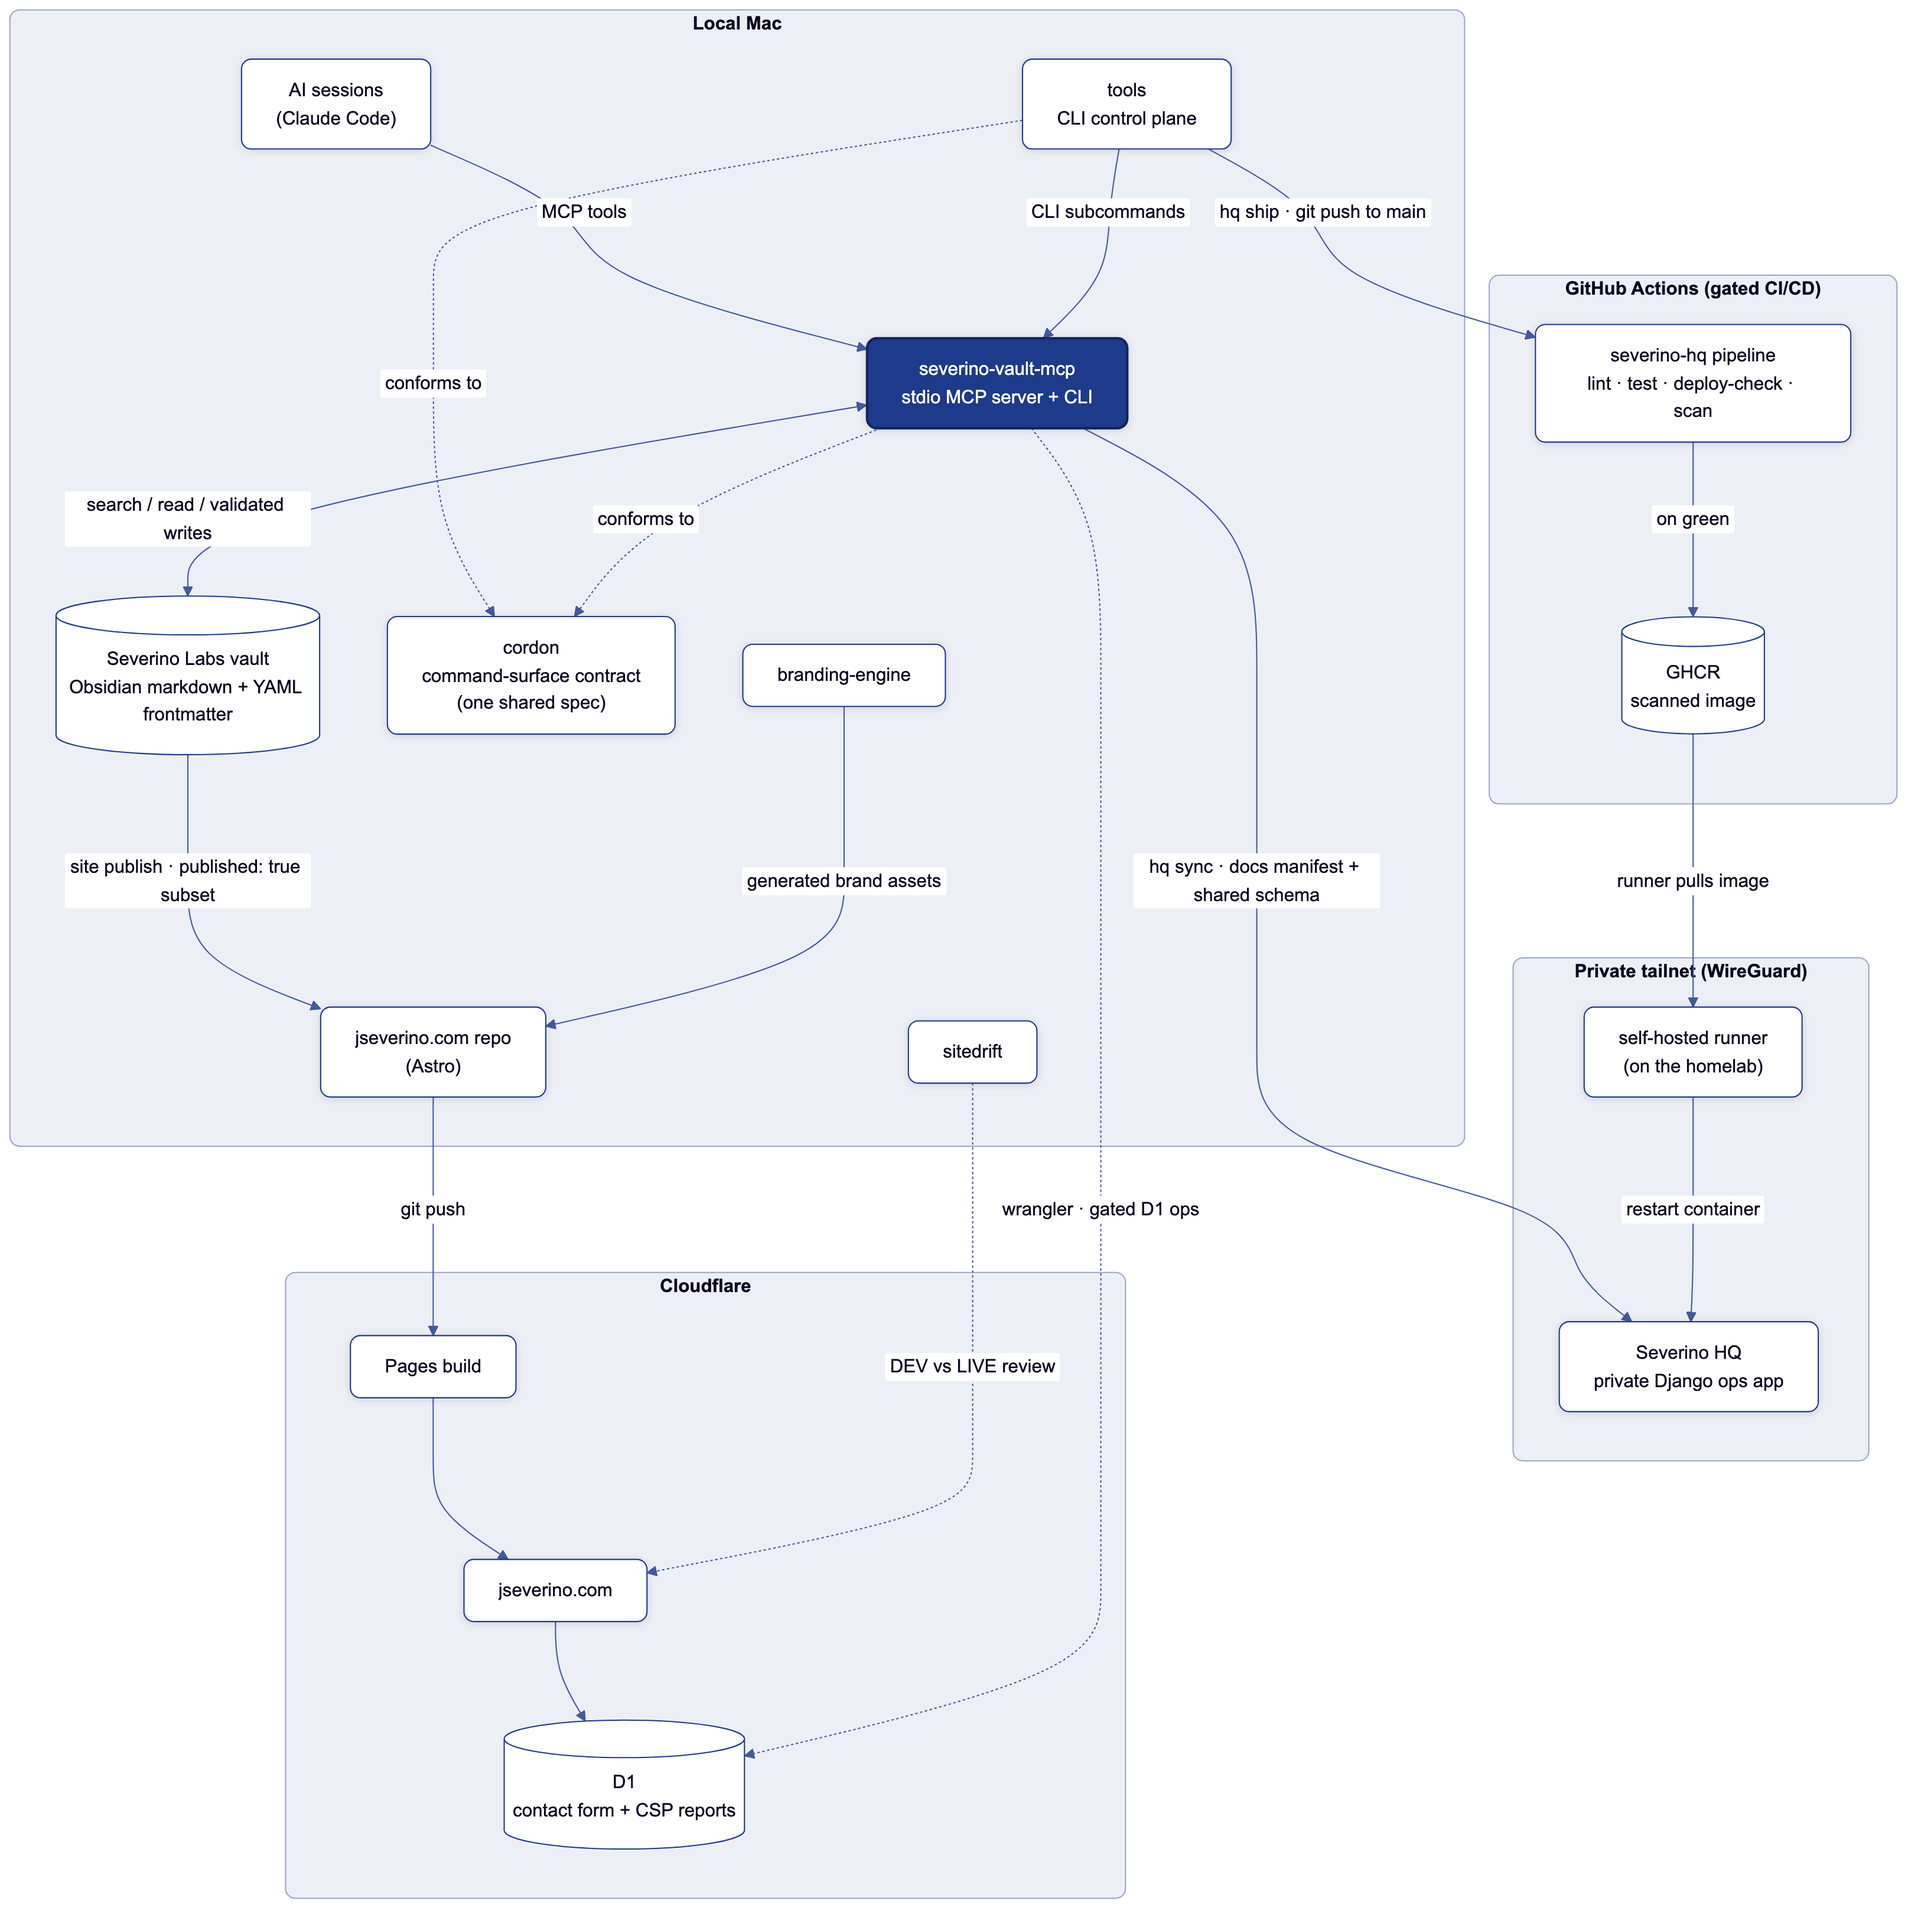
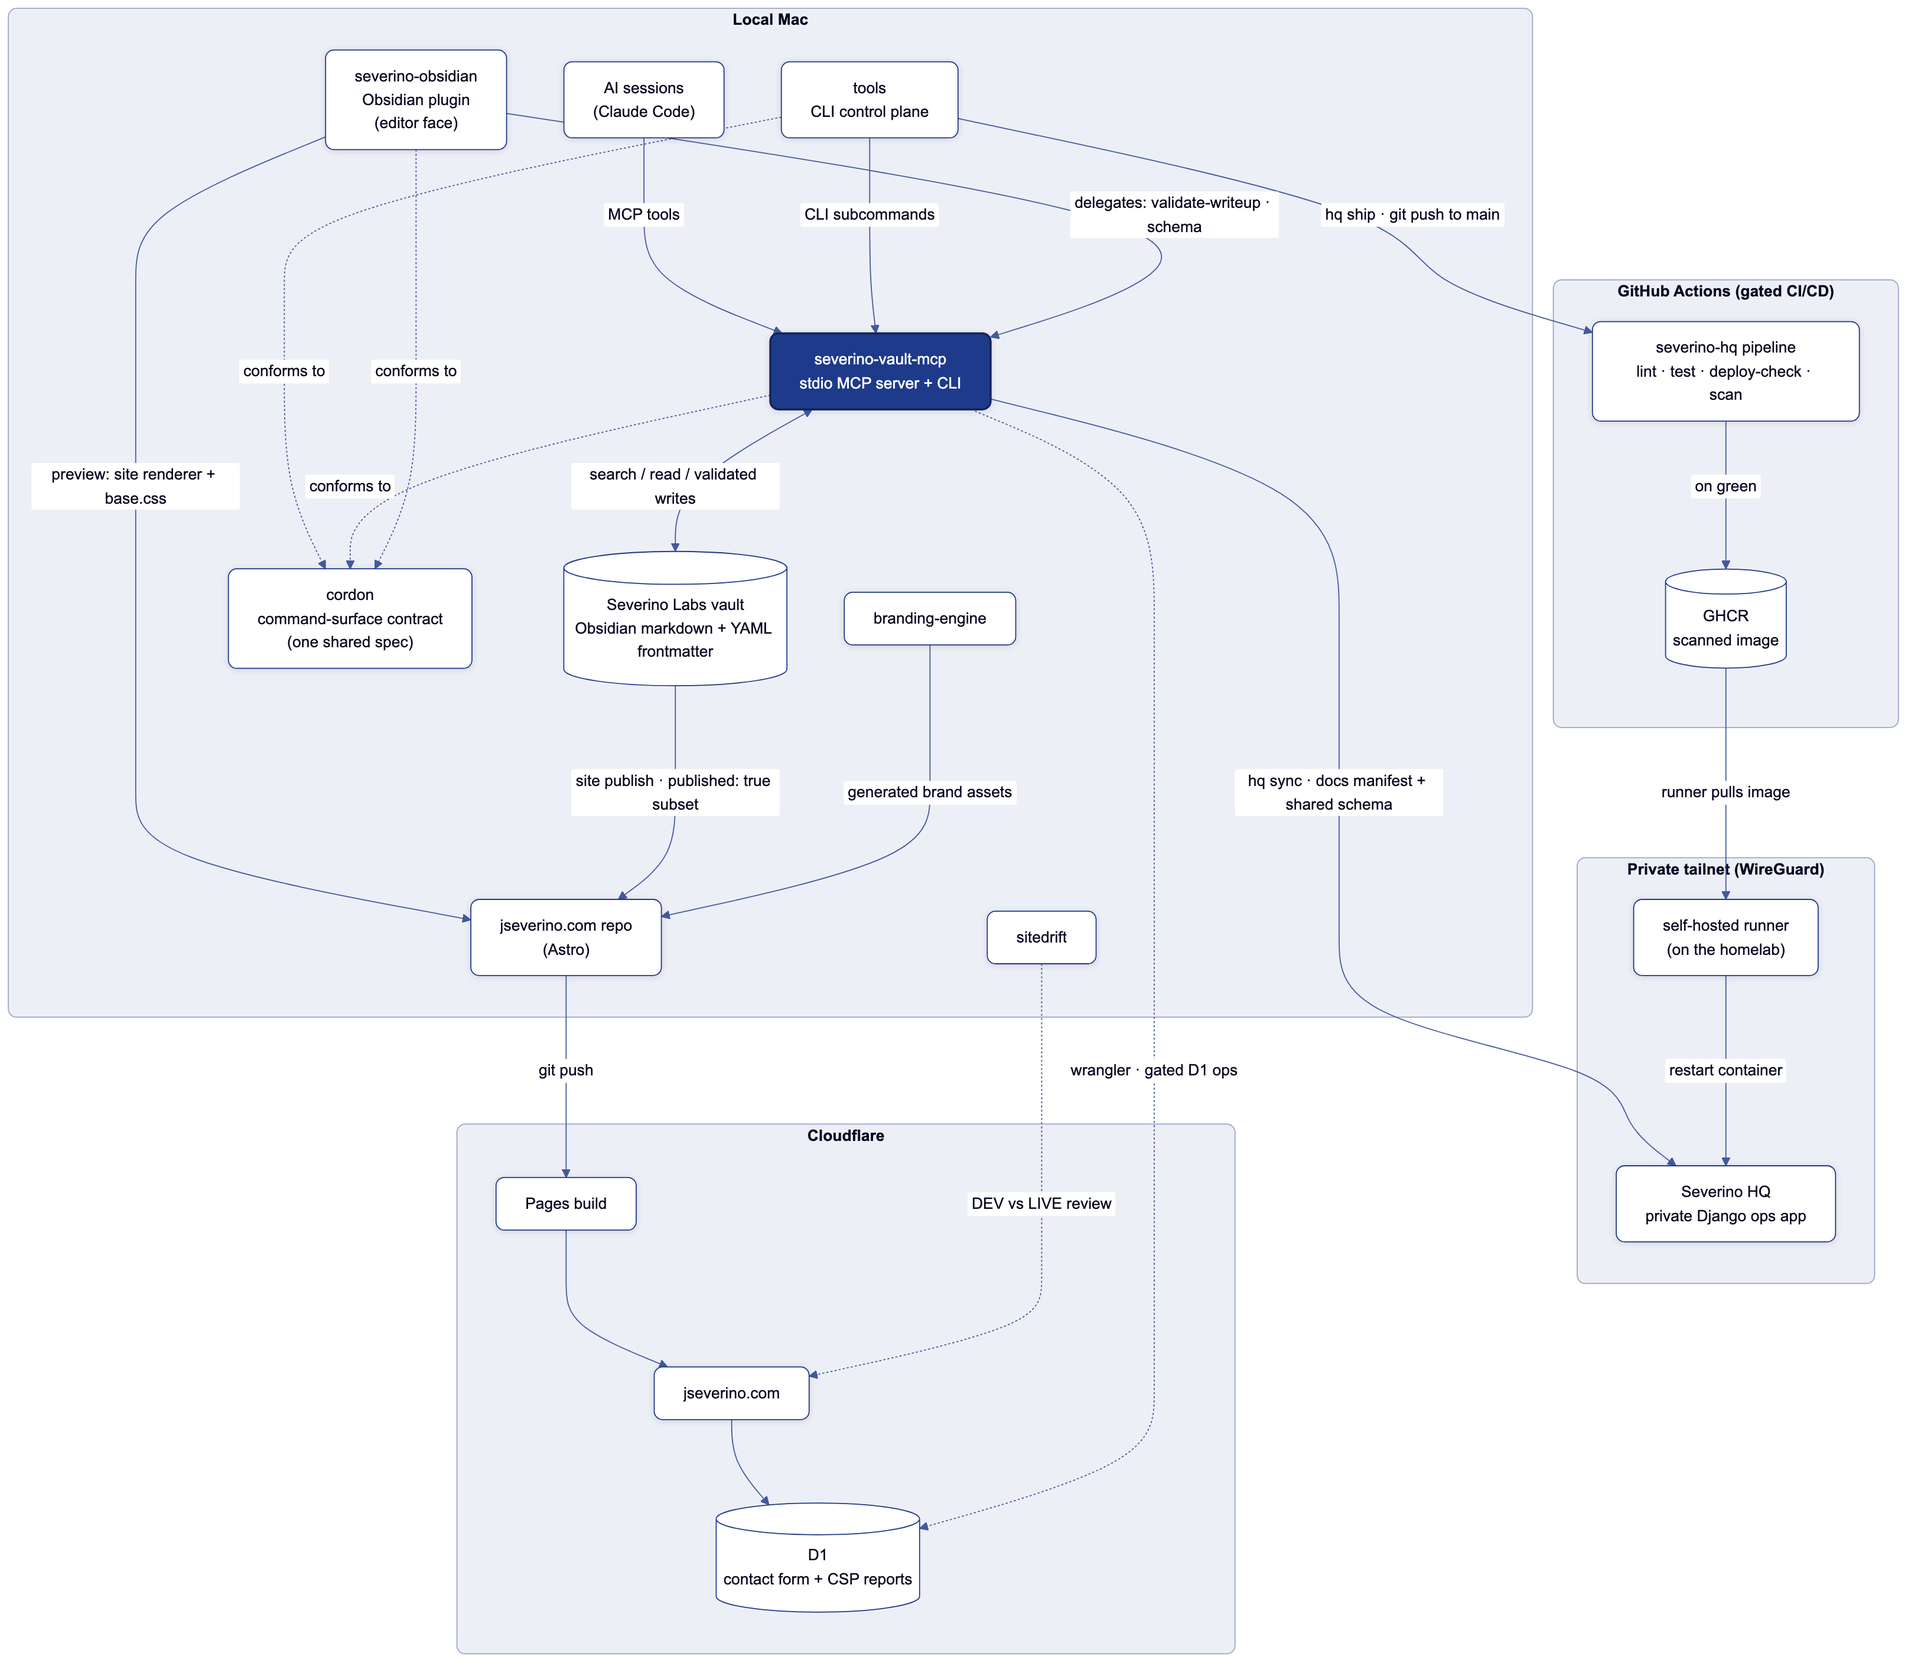
docs: editor face in the architecture, MCP command surface + TUIs

diff --git a/README.md b/README.md
@@ -8,9 +8,9 @@ Most of my projects are built around real systems I run myself: local AI tooling
 
 ## Featured Projects
 
-- **[severino-vault-mcp](https://github.com/joeseverino/severino-vault-mcp)** - Local-first MCP server that gives AI assistants safe access to an Obsidian operations vault. Layered CI security tooling (CodeQL, pip-audit, OSSF Scorecard, Dependabot), documented threat model, and a four-tier sensitivity gate for credential-adjacent content.
+- **[severino-vault-mcp](https://github.com/joeseverino/severino-vault-mcp)** - Local-first server that gives AI assistants safe access to an Obsidian operations vault. The same code path is exposed two ways — as MCP tools for AI sessions and as a cordon-conformant CLI the `site` toolchain wraps — so validation, schema, and atomic writes never drift between the interactive and scripted paths. Layered CI security tooling (CodeQL, pip-audit, OSSF Scorecard, Dependabot), a documented threat model, and a four-tier sensitivity gate for credential-adjacent content.
 - **[jseverino.com](https://github.com/joeseverino/jseverino.com)** - Public Astro portfolio deployed on Cloudflare Pages from a private Obsidian vault. It uses branding-engine as its generated brand source and sitedrift on branch previews, alongside vault-to-content sync, static publishing checks, CSP hardening, and a D1-backed contact form protected by Turnstile.
-- **[tools](https://github.com/joeseverino/tools)** - Cohesive personal macOS CLI suite: one umbrella command over standalone scripts that share a look, a help convention, and exit-code discipline. Their help, completions, and docs all generate from one cordon declaration per tool, and every measured README claim is asserted by a CI benchmark. It spans age encryption with Keychain-cached unlock, vault sync, dotfile backup, DNS-resolver latency diagnostics, and drift guards that diff live Tailscale, Cloudflare, AdGuard, and Nginx against their vault mirrors.
+- **[tools](https://github.com/joeseverino/tools)** - Cohesive personal macOS CLI suite: one umbrella command over standalone scripts that share a look, a help convention, and exit-code discipline. Their help, completions, docs, and a full-screen command explorer (`tools tui`) all generate from one cordon declaration per tool, and every measured README claim is asserted by a CI benchmark. Purpose-built TUIs sit on top of the workflow — `brief tui` ranks what needs me now, `repos tui` drives the repo fleet (ship/land/resync), and `site manage` puts every writeup on one screen. It spans age encryption with Keychain-cached unlock, vault sync, dotfile backup, DNS-resolver latency diagnostics, and drift guards that diff live Tailscale, Cloudflare, AdGuard, and Nginx against their vault mirrors.
 - **[cordon](https://github.com/joeseverino/cordon)** - Language-agnostic command-surface contract, the shared spec behind tools and severino-vault-mcp. Declare a CLI once and render every view from it (human help, shell completions, docs, a machine-readable spec) instead of maintaining them separately, and have each command carry its blast radius on a fixed effect ladder: read → local_write → vault_write → remote_write → deploy. That one field is what lets an agent or a runtime gate stop before a deploy it can't take back.
 - **[severino-hq](https://github.com/joeseverino/severino-hq)** - Private Django 5 ops app that turns vault frontmatter into structured operational records (projects, assets, expenses, receipts, a docs index). It deploys through a gated GitHub Actions pipeline: lint, multi-version tests, a deploy-posture check, pip-audit, and a Trivy scan must all pass before a self-hosted homelab runner pulls the image and restarts the container. Nothing inbound is ever opened, a red commit can't reach the box, and sign-in is OIDC SSO through a self-hosted Pocket ID.
 - **[sitedrift](https://github.com/joeseverino/sitedrift)** - Published [npm package](https://www.npmjs.com/package/sitedrift) for reviewing DEV against LIVE on the same route: split, overlay/diff, synced navigation, response deltas, and SEO checks. A two-step Cloudflare Pages addon installs it on branch previews and leaves production untouched, and an MCP interface opens the same review to AI.

diff --git a/ARCHITECTURE.md b/ARCHITECTURE.md
@@ -15,7 +15,7 @@ build stories live on [jseverino.com](https://jseverino.com).
 
 ## The Map
 
-![The full system map: on the local Mac, AI sessions and the tools CLI drive severino-vault-mcp, which reads and writes the Severino Labs vault and syncs a docs manifest plus the shared schema to Severino HQ on the private tailnet; the vault's published subset is snapshotted into the jseverino.com Astro repo alongside branding-engine assets; a git push triggers the Cloudflare Pages build serving jseverino.com with D1 behind it, reviewed by sitedrift against live; the tools CLI and the MCP both conform to the cordon command-surface contract, one shared spec](docs/diagrams/architecture.png)
+![The full system map: on the local Mac, AI sessions, the tools CLI, and the severino-obsidian Obsidian plugin drive severino-vault-mcp, which reads and writes the Severino Labs vault and syncs a docs manifest plus the shared schema to Severino HQ on the private tailnet; the plugin also renders a site-accurate writeup preview from the jseverino.com repo's own renderer; the vault's published subset is snapshotted into the jseverino.com Astro repo alongside branding-engine assets; a git push triggers the Cloudflare Pages build serving jseverino.com with D1 behind it, reviewed by sitedrift against live; the tools CLI, the MCP, and the plugin all conform to the cordon command-surface contract, one shared spec](docs/diagrams/architecture.png)
 
 <sup>Diagram source: [`docs/diagrams/architecture.mmd`](docs/diagrams/architecture.mmd),
 pre-rendered with [`diagram`](https://github.com/joeseverino/tools/blob/main/bin/diagram).</sup>
